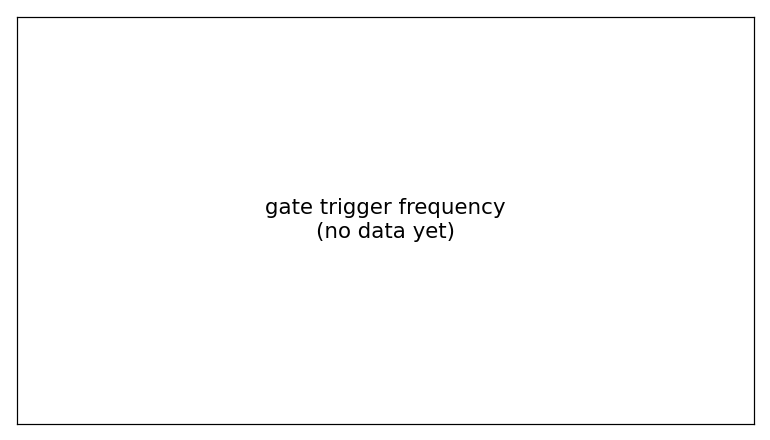
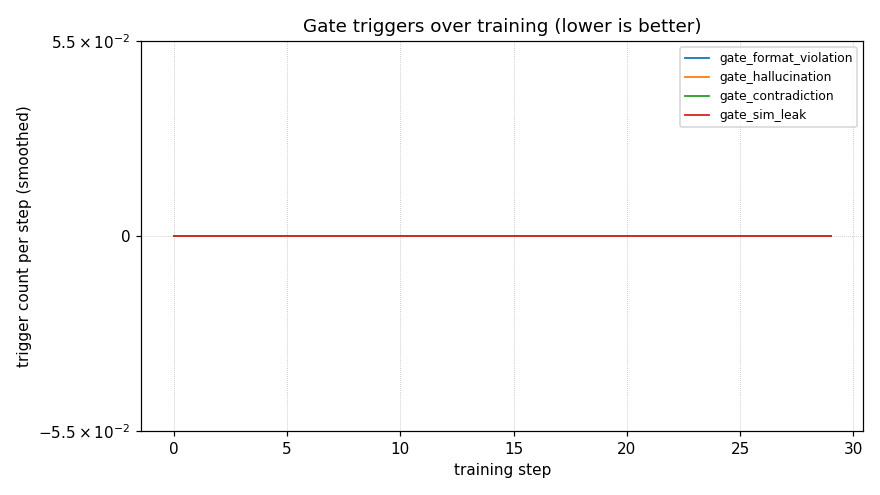
render 6 demo plots from local smoke + 2 baselines (real data, not placeholders) (#21)

Changed region(s): [[0.0, 0.0295, 0.9974, 0.975], [0.1247, 0.4432, 0.9351, 0.5614]]

diff --git a/scripts/render_demo_plots.py b/scripts/render_demo_plots.py
@@ -1,0 +1,110 @@
+"""render the 6 demo plots from the local-smoke training jsonl + scripted+vanilla
+baseline eval. produces demo/plots/*.png with real (not placeholder) data so the
+demo dir has shipped artifacts even before a real GPU training run.
+
+once a real Phase 1 run lands `training/dumps/phase1_metrics.jsonl`, re-run this
+script with `--training-jsonl training/dumps/phase1_metrics.jsonl` to overwrite
+the plots with real-training data."""
+
+from __future__ import annotations
+
+import argparse
+import sys
+from pathlib import Path
+
+ROOT = Path(__file__).resolve().parent.parent
+sys.path.insert(0, str(ROOT))
+
+from eval.eval_harness import run_eval  # noqa: E402
+from eval.metrics import CohortMetrics  # noqa: E402
+from eval.plot import load_training_jsonl, render_all  # noqa: E402
+
+
+def _eval_results_from_run(report: dict) -> dict[str, CohortMetrics]:
+    return dict(report["per_cohort"])
+
+
+def main() -> None:
+    ap = argparse.ArgumentParser()
+    ap.add_argument(
+        "--training-jsonl",
+        default="training/dumps/local_smoke_metrics.jsonl",
+        help="path to a metrics jsonl from a training run",
+    )
+    ap.add_argument("--out-dir", default="demo/plots")
+    args = ap.parse_args()
+
+    out_dir = ROOT / args.out_dir
+    training_jsonl = ROOT / args.training_jsonl
+
+    print(f"loading training metrics from {training_jsonl}...")
+    if training_jsonl.exists():
+        steps = load_training_jsonl(training_jsonl)
+        print(f"  loaded {len(steps)} steps")
+    else:
+        print(f"  not found — plots will be placeholders for the training-side panels")
+        steps = []
+
+    print("running scripted baseline eval over 30 held-out cases...")
+    from eval.baselines.scripted_baseline import build_scripted_baseline
+
+    scripted_report = run_eval(advisor=build_scripted_baseline(), model_label="scripted")
+    print(f"  scripted overall mean reward: {scripted_report['overall'].mean_total_reward:.3f}")
+
+    print("running 'always-finalize' constant baseline (proxy for vanilla)...")
+    from nyaya_mitra.interface import (
+        ActionPlan,
+        ApplicationPath,
+        FreeLegalAidContact,
+        LegalRouteRecommendation,
+        PlainSummary,
+        SchemeRecommendation,
+    )
+    from nyaya_mitra.interface.actions import Finalize
+
+    def always_finalize_advisor(observation, state):
+        plan = ActionPlan(
+            schemes=[
+                SchemeRecommendation(
+                    scheme_id="pm_kisan",
+                    rationale_facts=[],
+                    required_documents=["Aadhaar"],
+                    application_path=ApplicationPath(),
+                )
+            ],
+            legal_routes=[
+                LegalRouteRecommendation(
+                    framework_id="domestic_violence_act_2005",
+                    applicable_situation="generic",
+                    forum="magistrate",
+                    procedural_steps=["x"],
+                    free_legal_aid_contact=FreeLegalAidContact(
+                        authority="DLSA", contact_id="dlsa_ludhiana"
+                    ),
+                    required_documents=["id"],
+                )
+            ],
+            most_important_next_step="contact dlsa",
+            plain_summary=PlainSummary(language="en", text="please follow up."),
+        )
+        return Finalize(plan=plan)
+
+    vanilla_report = run_eval(advisor=always_finalize_advisor, model_label="constant")
+    print(f"  constant overall mean reward: {vanilla_report['overall'].mean_total_reward:.3f}")
+
+    eval_results = {
+        "constant": _eval_results_from_run(vanilla_report),
+        "scripted": _eval_results_from_run(scripted_report),
+    }
+
+    print(f"rendering 6 plots to {out_dir}...")
+    paths = render_all(training_steps=steps, eval_results=eval_results, out_dir=out_dir)
+    for name, p in paths.items():
+        size = p.stat().st_size if p.exists() else 0
+        print(f"  {name}  ({size} bytes)")
+
+    print("done.")
+
+
+if __name__ == "__main__":
+    main()

diff --git a/eval/report_scripted.md b/eval/report_scripted.md
@@ -1,0 +1,81 @@
+# Eval report — scripted-baseline
+
+## Headline
+
+- Cases: 30
+- Mean total reward: **0.509**
+- Median: 0.538
+- P25 / P75: 0.405 / 0.597
+- All gates passed: **100.0%**
+- Integrated cases solved: **50.0%**
+
+## Per-cohort
+
+| Cohort | n | mean reward | gates passed | finalized | mean turns | sensitivity F1 |
+|---|---|---|---|---|---|---|
+| welfare_only | 10 | 0.589 | 100.0% | 100.0% | 5.0 | 0.90 |
+| legal_only | 10 | 0.416 | 100.0% | 100.0% | 5.0 | 0.80 |
+| integrated | 10 | 0.522 | 100.0% | 100.0% | 5.0 | 0.15 |
+
+## Reward components (means)
+
+| Cohort | scheme P | scheme R | legal P | legal R | turn eff |
+|---|---|---|---|---|---|
+| welfare_only | 0.78 | 0.47 | 1.00 | 1.00 | 0.38 |
+| legal_only | 0.00 | 1.00 | 1.00 | 0.40 | 0.45 |
+| integrated | 1.00 | 0.36 | 1.00 | 0.45 | 0.00 |
+
+## Gate triggers (count)
+
+| Cohort | format | hallucination | contradiction | sim leak |
+|---|---|---|---|---|
+| welfare_only | 0 | 0 | 0 | 0 |
+| legal_only | 0 | 0 | 0 | 0 |
+| integrated | 0 | 0 | 0 | 0 |
+
+## Episode summary
+
+### welfare_only
+
+| seed | reward | finalized | turns | sim_leak |
+|---|---|---|---|---|
+| 101 | 0.602 | ✓ | 5 | 0 |
+| 102 | 0.602 | ✓ | 5 | 0 |
+| 103 | 0.370 | ✓ | 5 | 0 |
+| 104 | 0.519 | ✓ | 5 | 0 |
+| 105 | 0.682 | ✓ | 5 | 0 |
+| 106 | 0.604 | ✓ | 5 | 0 |
+| 107 | 0.722 | ✓ | 5 | 0 |
+| 108 | 0.605 | ✓ | 5 | 0 |
+| 109 | 0.582 | ✓ | 5 | 0 |
+| 110 | 0.603 | ✓ | 5 | 0 |
+
+### legal_only
+
+| seed | reward | finalized | turns | sim_leak |
+|---|---|---|---|---|
+| 201 | 0.460 | ✓ | 5 | 0 |
+| 202 | 0.403 | ✓ | 5 | 0 |
+| 203 | 0.510 | ✓ | 5 | 0 |
+| 204 | 0.412 | ✓ | 5 | 0 |
+| 205 | 0.400 | ✓ | 5 | 0 |
+| 206 | 0.323 | ✓ | 5 | 0 |
+| 207 | 0.403 | ✓ | 5 | 0 |
+| 208 | 0.323 | ✓ | 5 | 0 |
+| 209 | 0.370 | ✓ | 5 | 0 |
+| 210 | 0.557 | ✓ | 5 | 0 |
+
+### integrated
+
+| seed | reward | finalized | turns | sim_leak |
+|---|---|---|---|---|
+| 301 | 0.492 | ✓ | 5 | 0 |
+| 302 | 0.616 | ✓ | 5 | 0 |
+| 303 | 0.575 | ✓ | 5 | 0 |
+| 304 | 0.558 | ✓ | 5 | 0 |
+| 305 | 0.454 | ✓ | 5 | 0 |
+| 306 | 0.566 | ✓ | 5 | 0 |
+| 307 | 0.480 | ✓ | 5 | 0 |
+| 308 | 0.571 | ✓ | 5 | 0 |
+| 309 | 0.558 | ✓ | 5 | 0 |
+| 310 | 0.353 | ✓ | 5 | 0 |
